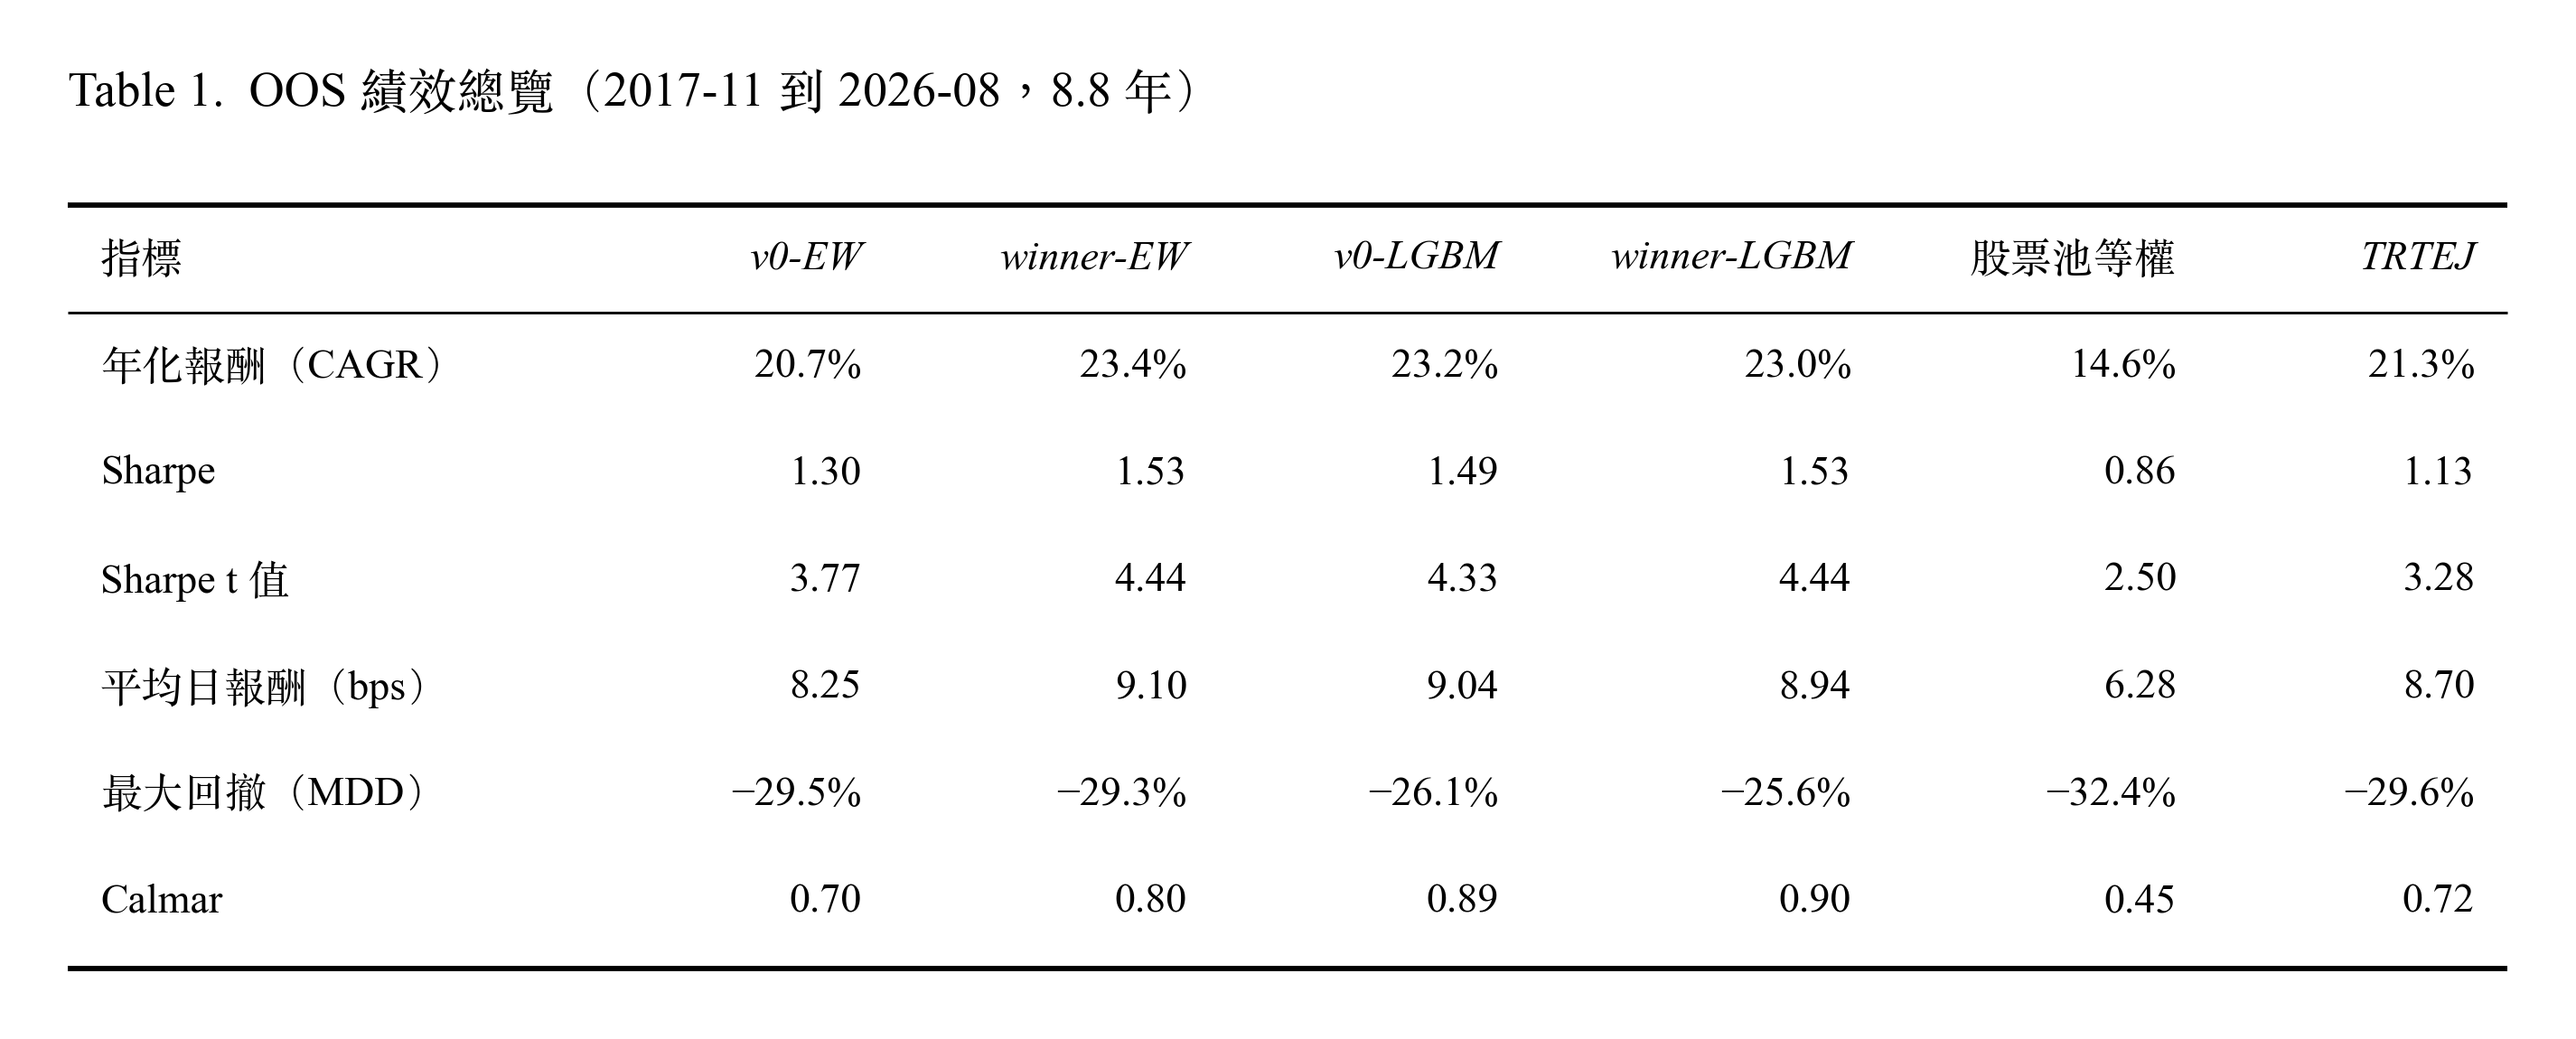
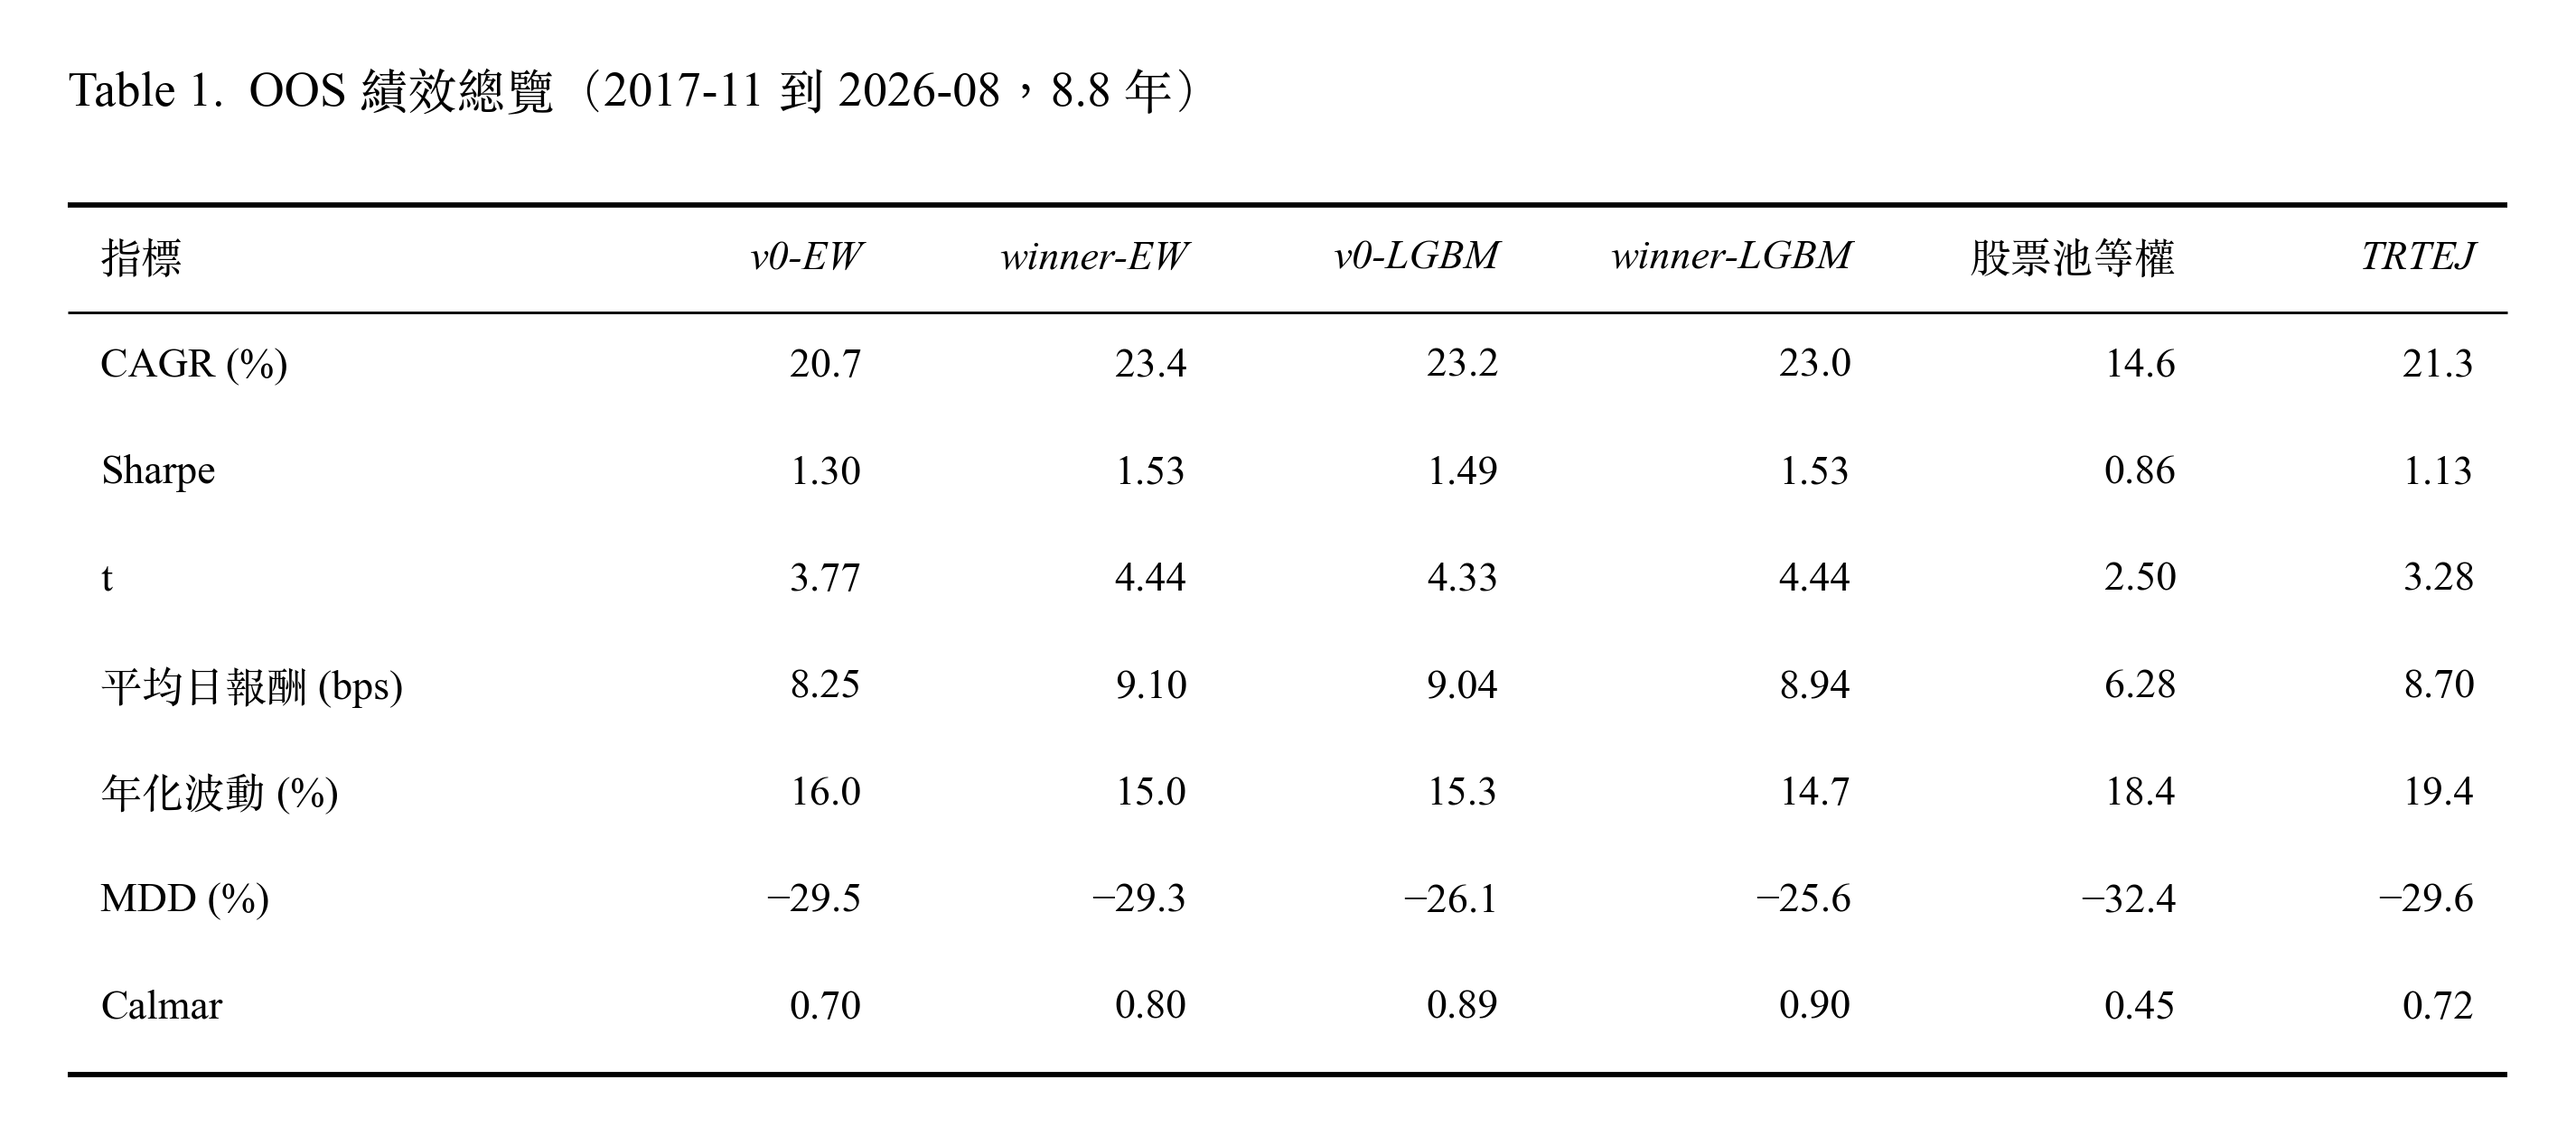
performance review

diff --git a/tw-5-factor-lab/03_Backtesting.md b/tw-5-factor-lab/03_Backtesting.md
@@ -49,14 +49,16 @@
   <img src="img/table_oos_performance.png" alt="Table 1. OOS 績效總覽" width="950">
 </p>
 
-> 股票池等權策略：換股時等權持有股票池中的全部股票（市值前 50% 股票，每期約 575–850 檔），成交與成本規則和策略相同；用來衡量「選股」本身的貢獻。
-> TRTEJ：TEJ 編製的台股大盤報酬指數（含息），作為比較基準。
+> 股票池等權：換股時等權持有股票池中的全部股票（市值前 50% 股票、排除金融股，每期約 575–850 檔），成交規則和策略相同；用來比較「策略選股」本身的貢獻。
+> TRTEJ：TEJ 編製的台股大盤報酬指數（含權息），作為比較基準。
+> 年化 Sharpe = 年化平均報酬 ÷ 年化波動（σ）
 
 #### 解讀
 - 4 個策略都優於股票池等權，年化報酬高出約 6–9 個百分點，表示選股優勢存在。
 - 4 個策略與大盤大致持平。年化報酬 20.7%–23.4% 對 TRTEJ 的 21.3%；Sharpe 較高主要來自於年化波動較低，進一步分析請看 [3.4 IS vs OOS 每期超額報酬拆解](#34-is-vs-oos-每期超額報酬拆解) 。
 - 4 個策略之間的差異小。Sharpe 都落在彼此的信賴區間內，勝者因子與 LGBM 優勢不顯著。
 - LGBM 的回撤相較於 EW 策略較淺（約 −26% 對 −29%），也因此 Calmar 較高。但兩者的報酬差異不顯著。
+- 策略的波動比大盤低約 3–5 個百分點，這是策略 Sharpe 高於大盤的主要原因。因為兩者的年化報酬其實相近。
 
 ---
 
@@ -88,22 +90,6 @@
 - 2022-01 到 2022-10：美國聯準會快速升息、俄烏戰爭。台股全年空頭，TRTEJ 的最大回撤 29.6%。
 - 2025-04：美國宣布對等關稅之後。股票池等權在這段期間的最大回撤是 32.4%。
 ```
-
---- 
-
-### 3.3 OOS 年化波動
-| 序列 | 平均日報酬 | × 252 | Sharpe | 年化波動（約） |
-|---|---|---|---|---|
-| v0-EW | 8.25 bps | 20.8% | 1.30 | 16.0% |
-| winner-EW | 9.10 bps | 22.9% | 1.53 | 15.0% |
-| v0-LGBM | 9.04 bps | 22.8% | 1.49 | 15.3% |
-| winner-LGBM | 8.94 bps | 22.5% | 1.53 | 14.7% |
-| 股票池等權 | 6.28 bps | 15.8% | 0.86 | 18.4% |
-| TRTEJ | 8.70 bps | 21.9% | 1.13 | 19.4% |
-> 年化 Sharpe = 年化平均報酬 ÷ 年化波動（σ）
-
-#### 解讀
-- 策略的波動比大盤低約 3–5 個百分點，這是策略 Sharpe 高於大盤的主要原因。因為兩者的年化報酬其實相近。
 
 ## 4. 歸因
 
